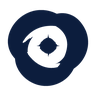
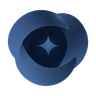
fix(brand): 单色标从统一母版派生，接入文档对齐真实实现
单色标（管理端侧栏用）原先取自品牌包另画的近似图形：挖空中心暗区，
alpha 轮廓与彩色版不同（411,775 px vs 534,590 px），却在本仓库文档里
被描述为「与用户端同一外形」。现按设计决策改为从彩色母版派生：

- alpha 通道原样保留 → 与彩色版同一核心轮廓（sha256 d4f31d69…，534,590 px）；
- 亮度按 p5–p95 归一化，映射单色明度阶梯（white #7a7a7a→#ffffff，
  navy #08152b→#4a6ca0），保住虹膜结构；
- 补齐 192 尺寸，与 DESIGN 的 64/96/192 口径一致；
- 品牌包原始单色母版移入 vendor-original/ 作来源追溯。

文档统一为「以真实实现为准」：
- INTEGRATION.md 重写为实际路径、尺寸、引用方式与派生规则；
- PACK-README.md 标记为历史资料，两处被取代口径就地标注；
- DESIGN.md §3.9、IRIS_2_DESIGN_REFERENCE_BRIEF.md 同步；
- QA.json 记录五张母版 alpha 一致性与派生参数。

同时删除零引用资产 iris-app-tile-192.png、vite.svg，修正验证记录里的
体积（实测 195.2 KiB）与字标前身（--font-serif / Noto Serif SC）。

验证：16/24/32/48px × 单色（管理紫）/ 彩色（白 / 午夜蓝）浏览器实拍；
管理端侧栏、Agent 欢迎屏、落地页弹层与设备预览均无回归；
旧 SVG 路径与失效引用静态扫描零命中。

diff --git a/web/src/components/admin/AdminNav.tsx b/web/src/components/admin/AdminNav.tsx
@@ -33,7 +33,9 @@ const ADMIN_GROUPS = [
 /**
  * 品牌标：Optical Iris 单色版。
  *
- * 与用户端同一外形；管理端把紫色留给品牌块底色（`--admin-*`），标本身只用单色。
+ * 单色版从同一张彩色母版派生（取 alpha 轮廓 + 亮度阶梯），
+ * 与用户端标共用同一核心轮廓，不是另画的近似图形。
+ * 管理端把紫色留给品牌块底色（`--admin-*`），标本身只用单色。
  * 品牌块底色随主题翻转（浅色主题深紫 / 深色主题浅紫），所以单色也要两版一起挂：
  * 浅色主题用白色，深色主题用深海军蓝——靠 <html>.dark 换，规则在 admin.css。
  */
@@ -43,7 +45,7 @@ export function IrisMark() {
       <img
         className="admin-side__mark admin-side__mark--light"
         src="/brand/iris-mono-white-96.png"
-        srcSet="/brand/iris-mono-white-64.png 64w, /brand/iris-mono-white-96.png 96w"
+        srcSet="/brand/iris-mono-white-64.png 64w, /brand/iris-mono-white-96.png 96w, /brand/iris-mono-white-192.png 192w"
         sizes="24px"
         alt=""
         width={24}
@@ -52,7 +54,7 @@ export function IrisMark() {
       <img
         className="admin-side__mark admin-side__mark--dark"
         src="/brand/iris-mono-navy-96.png"
-        srcSet="/brand/iris-mono-navy-64.png 64w, /brand/iris-mono-navy-96.png 96w"
+        srcSet="/brand/iris-mono-navy-64.png 64w, /brand/iris-mono-navy-96.png 96w, /brand/iris-mono-navy-192.png 192w"
         sizes="24px"
         alt=""
         width={24}

diff --git a/docs/testing/iris-optical-logo-20261116/README.md b/docs/testing/iris-optical-logo-20261116/README.md
@@ -1,13 +1,15 @@
-# Iris Optical Logo v1.0 接入候选 · 验证记录（2026-11-16）
+# Iris Optical Logo v1.0 接入 · 验证记录（2026-11-16）
 
 **基线**：`ui` @ `b5f37e5c`（冻结 tag `iris-ui-v2.1-freeze-20261115` @ `80f53f7f` 的后续提交）。
-本分支只做品牌资产替换与接入，**不解除冻结、不合并、不部署**。
+分两轮：`feat/iris-optical-brand-mark`（Logo 接入，PR #88 Draft）→
+`fix/brand-canvas-fill`（画布/表面收口 + 静态审查整改）。
+**不解除冻结、不合并、不部署。**
 
-## 改了什么
+## 第一轮：Logo 接入（`6124b0f0`）
 
 | 位置 | 变化 |
 |---|---|
-| `web/public/brand/` | 新增 light / dark 两色 64·96·192 位图，管理端单色 white / navy 64·96，favicon `.ico` + 180/192 磁贴 |
+| `web/public/brand/` | 新增 light / dark 两色 64·96·192 位图，管理端单色 white / navy 64·96·192，favicon `.ico` + 180 磁贴 |
 | `web/src/components/shell/Wordmark.tsx` | 金属虹膜 SVG → Optical Iris PNG，`srcSet` + `sizes="30px"` |
 | `web/src/components/agent/WelcomeScreen.tsx` | 同上，56px |
 | `web/src/components/admin/AdminNav.tsx` | 同心圆 SVG → 单色 Optical Iris；随主题翻转（浅色主题白、深色主题海军蓝） |
@@ -16,20 +18,88 @@
 | `web/public/iris-mark-metallic-*.svg`、`mark.svg` | 删除（历史版本见 git） |
 | `DESIGN.md` / `web/DESIGN.md` | 品牌标口径与资产清单同步；「金属虹膜标」→「光学虹膜标」 |
 
-未改页面布局、业务逻辑、后端接口或医学语义。
+## 第二轮：画布/表面收口 + 静态审查整改
+
+### 2.1 品牌画布未铺满视口（既有缺陷，非 Logo 引入）
+
+判读 / 个人中心 / 诊断记录 / 资讯详情在内容短于视口时，页面根容器在免责声明条处
+结束，露出 body 的旧仪器风骨白（浅 `#f3f4f1` / 暗 `#0b0d0c`），与品牌画布
+（`#f2f6fc` / `#0b1425`）形成横带。
+
+修法（`tokens.css`）：`#root > .is-brand-page { min-height: 100vh; min-height: 100dvh }`。
+选择器锚在 `#root` 上——`.is-brand-page` 还被落地页判读记录弹层与管理端新闻编辑的
+设备预览复用，那两处是页内容器，不能被撑成一屏高。
+
+### 2.2 旧仪器风表面令牌未收口
+
+`.is-brand-page` 原先只接管 `--field / --bg / --line / --hr`，没接管 `--surface / --surface-2 / --surface-3`，
+导致空态取景框等组件掉回旧冷绿灰（浅 `#e9ebe6` / 暗 `#242a27`）。现补：
+
+```css
+--surface:   var(--brand-surface);
+--surface-2: color-mix(in srgb, var(--brand-surface) 92%, var(--brand-text));
+--surface-3: color-mix(in srgb, var(--brand-surface) 84%, var(--brand-text));
+```
+
+用实底 + 少量品牌墨混出抬升面，不用半透明玻璃——内容表面（故障面板、输入框、
+空态框、弹层）必须保证文字可读与遮挡一致。判读记录纸不受影响：`.sheet` 自带
+`.is-sheet`，暗色下该作用域把 `--surface` 钉回纸面原语。
+
+### 2.3 `theme-color` 跟随应用内主题
+
+原先写死骨白 `#f3f4f1`，且只随系统 `prefers-color-scheme`。现改为：
+
+- `index.html` 防闪烁内联脚本按实际解析结果写 `#f2f6fc` / `#0b1425`；
+- `ThemeProvider.applyTheme` 每次切换同步改写 meta（用户手动切换也跟随）。
+
+### 2.4 守卫页 CSS 加载缺口
+
+`.admin-gate / .admin-denied` 的铺满与底色规则原先只写在 `admin.css`，
+而 `admin.css` 由 `AdminLayout.tsx` 导入；守卫分支不渲染 `AdminLayout`，
+规则从未加载。现移到全局 `app.css`，守卫页铺满一屏并使用管理紫画布。
+
+### 2.5 死代码与过期注释
+
+- 删除旧认证页 `.auth .btn / .auth--light .btn`（DOM 已无 `.auth` 类，规则从未生效，且含硬编码 `#f1f2ee / #14171a`）；`.auth__glass` 例外——被落地页收尾玻璃复用，保留。
+- 删除 `admin.css` 中对 PNG 无效的 `color: var(--admin-on-primary)`。
+- `tokens.css` / `app.css` 文件头「白色仪器」→ Iris 2.0 四场景口径。
+- `agent.css`、`scripts/evidence/r25-accept-crossroute.mjs` 的「金属标」注释 → 光学标。
+- 删除零引用资产 `web/public/brand/iris-app-tile-192.png`、`web/public/vite.svg`。
+
+### 2.6 单色标从统一母版派生（设计决策 A）
+
+原单色版是品牌包另画的近似图形（挖空中心，非零 alpha 411,775 px），与彩色版
+轮廓不同。现改为从 `iris-optical-primary-1024.png` 派生：
+
+- alpha 通道原样保留 → **与彩色版同一核心轮廓**（sha256 `d4f31d69…`，534,590 px）；
+- 亮度按 p5–p95 归一化，映射单色明度阶梯（white `#7a7a7a→#ffffff`、navy `#08152b→#4a6ca0`）；
+- 16px 下内部纹理压缩为可辨的「环 + 心」，管理端实际使用 24px。
+
+品牌包原始单色母版保存在 `vendor-original/`，仅作来源追溯。
+
+### 2.7 文档口径统一（设计决策 B）
+
+- `docs/design/assets/iris-optical-brand-v1.0/INTEGRATION.md` 重写为**当前真实实现**
+  （路径、尺寸、引用方式、单色派生规则）。
+- `PACK-README.md` 加「历史资料 · 非有效接入说明」标记；被取代的两条口径就地标注。
+- `DESIGN.md` §3.9：三色母版共享 alpha、项目内只用 light/dark、单色派生与尺寸口径。
+- `IRIS_2_DESIGN_REFERENCE_BRIEF.md`：金属标 SVG 路径 → 光学标 + INTEGRATION 指针。
+- `QA.json` 增加 `mono_derivation`（派生方法、sha 一致性、原始文件位置）。
 
 ## 资产体积
 
 | 资产 | 尺寸 | 体积 |
 |---|---|---|
-| `iris-optical-light-96.png` / `-192.png` | 96 / 192 | 10.8 KB / 30.4 KB |
-| `iris-optical-dark-96.png` / `-192.png` | 96 / 192 | 10.8 KB / 30.8 KB |
-| `iris-mono-white-96.png` / `iris-mono-navy-96.png` | 96 | 3.2 KB / 5.2 KB |
-| `iris-favicon.ico` | 多尺寸 | 14.6 KB |
-| 合计 `web/public/brand/` | — | **204 KB** |
+| `iris-optical-light-96.png` / `-192.png` | 96 / 192 | 10.6 KB / 29.7 KB |
+| `iris-optical-dark-96.png` / `-192.png` | 96 / 192 | 10.6 KB / 30.1 KB |
+| `iris-mono-white-96.png` / `-192.png` | 96 / 192 | 7.0 KB / 16.3 KB |
+| `iris-mono-navy-96.png` / `-192.png` | 96 / 192 | 8.4 KB / 21.5 KB |
+| `iris-favicon.ico` | 多尺寸 | 14.2 KB |
+| `iris-app-tile-180.png` | 180 | 25.8 KB |
+| 合计 `web/public/brand/`（14 个文件） | — | **195.2 KiB / 199,854 B** |
 
-1024 母版不进 `public/`，放在 `docs/design/assets/iris-optical-brand-v1.0/` 供追溯（含品牌包 README / QA / 接入建议）。
-小尺寸由母版按 LANCZOS 生成，与品牌包自带 16–512 图标同一 alpha 轮廓。
+1024 母版不进 `public/`，放在 `docs/design/assets/iris-optical-brand-v1.0/` 供追溯
+（含品牌包 README / QA / 接入说明）。小尺寸由母版按 LANCZOS 生成。
 
 ## 验证
 
@@ -42,25 +112,56 @@ npm run test        # 51 files / 434 tests passed
 npm run build       # ✓ built（仅有既有的 chunk 体积提示）
 ```
 
-真实浏览器（Chromium 1234，Playwright，dev server `:5174` → 后端 `:8081`）：
+真实浏览器（Chromium 1234，Playwright，dev server `:5175` → 后端 `:8081`）：
 
-- `FONT: "Manrope Variable" 700, document.fonts.check → true`
-- `FAVICON: 200 image/x-icon 14583 bytes`
-- 页面无 console error / 无 4xx 请求
+| 检查 | 结果 |
+|---|---|
+| `theme-color` 初始（system / light / dark） | `#f2f6fc` / `#f2f6fc` / `#0b1425` |
+| `theme-color` 应用内切换 light↔dark | `#f2f6fc` ↔ `#0b1425`，与 `<html>` 类同步 |
+| 判读页底部（2000×1025，Light/Dark） | 不再露底，根容器 `min-height` = 视口 |
+| 空态取景框（`/records`） | 浅 `rgb(236,237,239)` / 暗 `rgb(40,55,77)`，品牌冷调 |
+| 守卫页（普通用户访问 `/admin/*`） | 铺满 1000px，管理紫 `rgb(244,241,250)` / `rgb(18,16,28)` |
+| 认证页按钮（`.auth-auth .btn`） | 浅 `rgb(36,87,201)` 白字 / 暗 `rgb(133,181,255)` 深字 |
+| 管理端侧栏标 | 浅主题 mono-white 24px / 暗主题 mono-navy 24px，随主题翻转 |
+| Agent 欢迎屏标 | 56px，Light/Dark 各挂一版，另一版 `display:none` |
+| 判读记录弹层 | 浅 `#ffffff` / 暗 `#17263d`，内嵌记录纸仍为白纸 |
+| 设备预览容器 | 1240×622（与修复前一致，未被 `min-height` 撑高） |
+| 资产可达性 | 14 个文件全部 200；favicon `image/x-icon` 14,583 B |
+| 旧 SVG 路径 / 失效引用静态扫描 | `iris-mark-metallic`、`mark.svg`、`public` 下的 `-1024` 路径：**零命中** |
 
-截图（Light / Dark 各一套，均为真实页面）：
+截图（真实页面，Light / Dark 各一套）：
 
 | 文件 | 场景 |
 |---|---|
-| `landing-light.webp` / `landing-dark.webp` | 首页顶栏（1440×900） |
-| `login-light.webp` / `login-dark.webp` | 登录页（认证壳） |
+| `landing-light.webp` / `landing-dark.webp` | 首页首屏（1440×900） |
+| `login-light.webp` / `login-dark.webp` | 登录页认证壳（1600×1000） |
 | `admin-light.webp` / `admin-dark.webp` | 管理端侧栏品牌位（管理紫） |
+| `mark-sizes-16-48.webp` | 16/24/32/48px × 单色（管理紫）/ 彩色（白/午夜蓝），2× DPR |
+| `empty-frame-light.webp` / `empty-frame-dark.webp` | 记录页空态取景框 |
+| `admin-guard-light.webp` / `admin-guard-dark.webp` | 管理员守卫页（普通用户视角） |
+| `record-modal-light.webp` / `record-modal-dark.webp` | 落地页判读记录弹层（纸面原语回归） |
+| `canvas-fill-light.webp` / `canvas-fill-dark.webp` | 判读页底部：上=修复前，下=修复后 |
 | `mobile-landing-light.webp` / `mobile-landing-dark.webp` | 移动端 390×844 |
-| `mark-sizes-16-64.webp` | 16/24/32/48/64px 实际像素（白底/深底各一行） |
+
+## 文档一致性报告
+
+| 文档 | 修正内容 |
+|---|---|
+| `INTEGRATION.md` | 全部路径改为 `web/public/brand/` 实际文件；尺寸 64/96/192；单色派生规则；回归清单 |
+| `PACK-README.md` | 头部「历史资料」标记；`png/icon`、`admin-purple`、单色「挖空中心」口径标注为已被取代 |
+| `DESIGN.md` §3.9 | 三色母版共享 alpha；项目内只用 light/dark；单色派生 + 64/96/192；16px 差异 |
+| `IRIS_2_DESIGN_REFERENCE_BRIEF.md` | 删除已删 SVG 路径，指向光学标与 INTEGRATION |
+| `QA.json` | 五张母版 alpha sha 全部一致；新增 `mono_derivation` 与 `vendor_originals` |
+| 本 README | 资产体积改为实测 195.2 KiB；字标前身改为 `--font-serif`（Noto Serif SC） |
 
 ## 已知取舍
 
-1. **16px 只能保留外环**：品牌包 README 已声明，星点细节在 16px 不可见；浏览器标签栏以真实环境为准。
-2. **管理端用单色版**：品牌块底色本身就是管理紫，紫标压紫底会糊；沿用「紫色作容器、标用单色」的包内建议。品牌块底色随主题翻转，因此单色标也要两版（白 / 海军蓝）。
-3. **字标从衬线改 Manrope**：DESIGN §1.6.1 一直写的是「Manrope 字标」，实现此前是 Instrument Serif；本次对齐规范，宽度略变，不影响布局。
-4. 旧 `iris-mark-metallic-*.svg` 已删；如需回滚，`git revert` 本提交即可。
+1. **16px 只能保留外环**：品牌包已声明星点细节在 16px 不可见；单色版在 16px 简化为
+   「环 + 心」，管理端实际使用 24px。
+2. **管理端用单色版**：品牌块底色本身就是管理紫，紫标压紫底会糊。品牌块底色随主题
+   翻转，因此单色标也要两版（白 / 海军蓝）。
+3. **字标从衬线改 Manrope**：DESIGN §1.6.1 一直写的是「Manrope 字标」，实现此前用的是
+   `--font-serif`（`"Noto Serif SC", …`）；本次对齐规范，宽度略变，不影响布局。
+4. **单色版保留明度阶梯**：为保住虹膜结构，单色不是纯色剪影，而是同色相的明度变化
+   （white 灰→白、navy 深→中）。轮廓由 alpha 完全锁死，与彩色版一致。
+5. 旧 `iris-mark-metallic-*.svg` 已删；如需回滚，`git revert` 对应提交即可。

diff --git a/docs/design/assets/iris-optical-brand-v1.0/INTEGRATION.md b/docs/design/assets/iris-optical-brand-v1.0/INTEGRATION.md
@@ -1,29 +1,65 @@
-# Iris React 接入（建议独立 PR，不改冻结 ui）
+# Iris React 接入说明（以本仓库当前实现为准）
 
-## 资源映射
-把三个 1024 PNG 图标放在 `web/public/brand/`，并在 `Wordmark.tsx` 里统一引用：
+> 本文件描述**本仓库已落地的实现**，不是品牌包的通用建议。
+> 品牌包 v1.0 的原始说明见 `PACK-README.md`（已标记为历史资料）。
+
+## 资产位置
+
+运行时资产全部在 `web/public/brand/`，由 Vite 原样发布；1024 母版留在
+`docs/design/assets/iris-optical-brand-v1.0/` 供追溯，**不进 `public/`**。
+
+| 角色 | 文件 | 展示尺寸 |
+|---|---|---|
+| 用户端浅色标 | `iris-optical-light-{64,96,192}.png` | 顶栏/页脚 30px，Agent 欢迎屏 56px |
+| 用户端深色标 | `iris-optical-dark-{64,96,192}.png` | 同上 |
+| 管理端单色（浅色主题用） | `iris-mono-white-{64,96,192}.png` | 侧栏 24px |
+| 管理端单色（深色主题用） | `iris-mono-navy-{64,96,192}.png` | 侧栏 24px |
+| 浏览器标签栏 | `iris-favicon.ico` | 多尺寸 ICO |
+| iOS / Android 主屏 | `iris-app-tile-180.png` | 180px |
+
+## 引用方式
+
+用户端（`web/src/components/shell/Wordmark.tsx`、`web/src/components/agent/WelcomeScreen.tsx`）：
 
 ```tsx
-<span className="wordmark__iris" aria-hidden="true">
-  <img className="wordmark__mark wordmark__mark--light"
-       src="/brand/iris-optical-primary-1024.png" alt="" width={32} height={32} />
-  <img className="wordmark__mark wordmark__mark--dark"
-       src="/brand/iris-optical-dark-1024.png" alt="" width={32} height={32} />
-</span>
-<span className="wordmark__zh" style={{ fontFamily: 'var(--font-brand)', fontWeight: 700 }}>
-  Iris
-</span>
+<img
+  className="wordmark__mark wordmark__mark--light"
+  src="/brand/iris-optical-light-96.png"
+  srcSet="/brand/iris-optical-light-64.png 64w, /brand/iris-optical-light-96.png 96w, /brand/iris-optical-light-192.png 192w"
+  sizes="30px"
+  alt="" width={30} height={30}
+/>
 ```
 
-管理端 `AdminNav.tsx` 不应再画一枚不同轮廓的 `IrisMark`；改为引用 `iris-optical-admin-purple-1024.png`。
+浅色/深色两版同时挂，靠 `html.dark` 规则切换（`app.css`、`agent.css`）。
 
-更新 `web/index.html` Favicon 路径指向 `/brand/iris-favicon.ico`。
+管理端（`web/src/components/admin/AdminNav.tsx`）：同一结构，换成
+`iris-mono-white-*` / `iris-mono-navy-*`，`sizes="24px"`，宽高 24。
+紫色留给品牌块底色（`--admin-*`），标本身只用单色。
 
-先完成 UI 解冻授权或独立 PR 评审，**不要直接修改 `ui` / `master`**。
+`web/index.html`：
+
+```html
+<link rel="icon" href="/brand/iris-favicon.ico" sizes="any" />
+<link rel="apple-touch-icon" href="/brand/iris-app-tile-180.png" />
+```
+
+## 单色版派生规则（2026-11-16 起）
+
+单色版**从彩色母版派生**，不再单独绘制近似图形：
+
+- 取 `iris-optical-primary-1024.png` 的 alpha 通道原样保留 → 与彩色版**同一核心轮廓**
+  （alpha sha256 `d4f31d69…`，非零 alpha 534,590 px，与 light / dark / admin 紫三色一致）；
+- 用母版亮度（p5–p95 归一化）映射单色明度阶梯：
+  - `mono-white`：暗区 `#7a7a7a` → 亮区 `#ffffff`（压在管理紫底上）
+  - `mono-navy`：暗区 `#08152b` → 亮区 `#4a6ca0`（压在浅紫底上）
+- 16px 下内部纹理压缩为可辨的「环 + 心」结构，不再保留镜面细节；管理端实际使用 24px。
+
+派生前的品牌包原始单色母版保留在 `vendor-original/`，仅作来源追溯。
 
 ## 必做回归
 
-- Light/Dark 顶栏与登录、页脚、管理员侧栏、favicon。
-- 16/24/32/48px 实际浏览器与 1x/2x DPR 清晰度。
-- 24px 缩放小图不使用自动锐化；必要时单独测试尺寸优化，但保持统一外轮廓。
+- Light/Dark 顶栏、页脚、登录/注册、Agent 欢迎屏、管理端侧栏、favicon。
+- 16/24/32/48px 实际浏览器与 1x/2x DPR 清晰度；24px 不做自动锐化。
 - 灰阶、单色背景、浏览器遮蔽标签场景。
+- 单色版与彩色版的 alpha 轮廓一致性（见 `QA.json`）。

diff --git a/docs/design/assets/iris-optical-brand-v1.0/PACK-README.md b/docs/design/assets/iris-optical-brand-v1.0/PACK-README.md
@@ -1,5 +1,16 @@
 # Iris · Optical Iris PNG Brand Pack (v1.0)
 
+> **历史资料 · 非有效接入说明（2026-11-16 起）**
+>
+> 本文档是品牌包 v1.0 的原始说明，仅用于追溯设计来源。其中的目录结构
+> （`png/icon/`、`png/mono/` 等）、文件路径与尺寸口径**不代表本仓库实现**；
+> 实际接入以同目录 `INTEGRATION.md` 为准。
+>
+> 两处已被项目决策取代：
+> 1. 管理端不再使用 `iris-optical-admin-purple-1024.png`，改用从彩色母版派生的单色版；
+> 2. 单色版不再是「轻量化几何近似、移除中心暗色区域」——已改为与彩色版
+>    **同一 alpha 轮廓**派生（见 `INTEGRATION.md`「单色版派生规则」）。
+
 ## 本次定稿范围
 
 - 以 `source/approved-concept-original.png` 为**唯一视觉母版**；保留原图的旋转虹膜、中心星点和蓝青折射。
@@ -13,7 +24,7 @@
 - 顶栏/认证/页脚：`png/icon/iris-optical-primary-1024.png` (Light)；`iris-optical-dark-1024.png` (Dark)，用 `width/height=28~36` + `object-fit: contain`。
 - 管理端：`png/icon/iris-optical-admin-purple-1024.png`，与用户端为同一外形；可把紫色作为容器/背景强调，而不改变品牌符号。
 - 浏览器 favicon：`png/favicon/iris-favicon.ico`；透明图标源 `png/icon/iris-icon-32.png`。
-- 纯单色印刷与小图标：`png/mono/iris-optical-mono-navy-1024.png` 和 `iris-optical-mono-white-1024.png`。单色版为轻量化通用几何近似，会移除中心暗色渐变区域，但不会改变外围主体轮廓。
+- 纯单色印刷与小图标：`png/mono/iris-optical-mono-navy-1024.png` 和 `iris-optical-mono-white-1024.png`。~~单色版为轻量化通用几何近似，会移除中心暗色渐变区域~~ —— **已被项目决策取代**：本仓库现用的单色版从彩色母版按同一 alpha 轮廓派生，保留中心结构，见 `INTEGRATION.md`；原始文件存于 `vendor-original/`。
 - 字标：优先在 React 中渲染项目内已有的 **Manrope** `Iris` 文本，而不要使用位图字标放大到任意尺寸。`png/lockup/` 为展示和临时物料备选，在此环境使用字形相近的 Noto Sans Display 作为视觉替代，**不代表已经使用 Manrope 的字形度量**。
 
 ## QA 口径

diff --git a/DESIGN.md b/DESIGN.md
@@ -1082,10 +1082,14 @@ Brand 场景的玻璃面板用 `--brand-shadow`（蓝墨投影），其余场景
 - Iris 自有资产：光学虹膜标（Optical Iris v1.0，`web/public/brand/`，母版与 QA 在
   `docs/design/assets/iris-optical-brand-v1.0/`）、Optic Flow V4 概念图（`docs/design/assets/`）。
   - 2026-11-16 起取代旧「金属虹膜标」SVG；旧文件已删除，历史版本见 git。
-  - 三种彩色版（light / dark / admin 紫）共享同一 alpha 轮廓（品牌包 QA 提供 sha256 比对）；
-    管理端把紫色留给品牌块底色，标本身用白色单色版。
-  - 位图按 64/96/192 提供并用 `sizes` 固定展示尺寸；不要把 1024 母版直接放进 `public/`。
-  - 16px favicon 只能保留虹膜外环识别，星点细节不可见——最终以真实标签栏验收。
+  - 三张彩色母版（light / dark / admin 紫）共享同一 alpha 轮廓（sha256 `d4f31d69…`）；
+    项目内只用 light / dark 两版，管理端把紫色留给品牌块底色（`--admin-*`）。
+  - 管理端单色版（white / navy）从同一彩色母版派生：alpha 轮廓完全一致，亮度映射为
+    单色明度阶梯，不是另画的近似图形。品牌包原始单色母版存于 `vendor-original/`。
+  - 位图按 64/96/192 提供（彩色与单色同规格）并用 `sizes` 固定展示尺寸；
+    不要把 1024 母版直接放进 `public/`。
+  - 16px favicon 只能保留虹膜外环识别，星点细节不可见——最终以真实标签栏验收；
+    单色版在 16px 下简化为「环 + 心」结构，管理端实际使用 24px。
 - **React Bits · Beams** 是 vendored 代码：必须保留**许可原文**与**固定上游 commit**，
   记录在 `web/src/components/brand/THIRD-PARTY-NOTICES.md`。
   换 SHA 必须重做逐字比对。

diff --git a/docs/design/IRIS_2_DESIGN_REFERENCE_BRIEF.md b/docs/design/IRIS_2_DESIGN_REFERENCE_BRIEF.md
@@ -99,7 +99,7 @@
 | `--brand-cyan` | `#006f82` | `#60d7e6` |
 | `--brand-aurora` | `#6b56c5` | `#c0acff` |
 
-统一使用现有 `ThemeProvider`，主题选择器 `html.dark`，支持系统主题。Manrope 主导拉丁品牌与 UI 文本，Noto Sans SC 负责中文，IBM Plex Mono 负责程序/技术读数。Logo 沿用项目现有金属虹膜标 `iris-mark-metallic-light/dark.svg`（具体文件路径以仓库实际位置为准）。
+统一使用现有 `ThemeProvider`，主题选择器 `html.dark`，支持系统主题。Manrope 主导拉丁品牌与 UI 文本，Noto Sans SC 负责中文，IBM Plex Mono 负责程序/技术读数。Logo 使用光学虹膜标（Optical Iris v1.0，2026-11-16 起取代旧金属虹膜标 SVG）：运行时资产在 `web/public/brand/`，接入映射见 `docs/design/assets/iris-optical-brand-v1.0/INTEGRATION.md`。
 
 **统一的是品牌身份、基本排版、语义色、按钮反馈、可访问性和交互逻辑；不同的是页面密度、视觉强度、面板材质与布局。** 不要求三大场景都长成同一种卡片布局。
 
